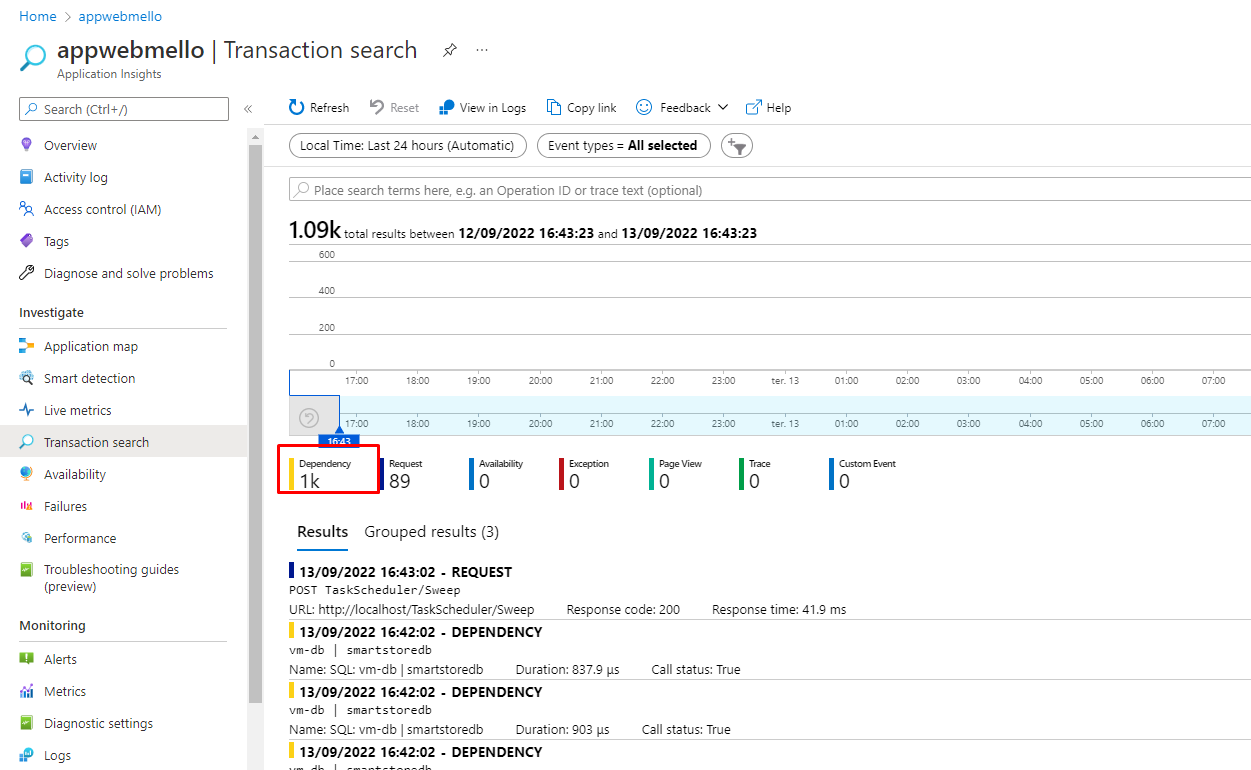
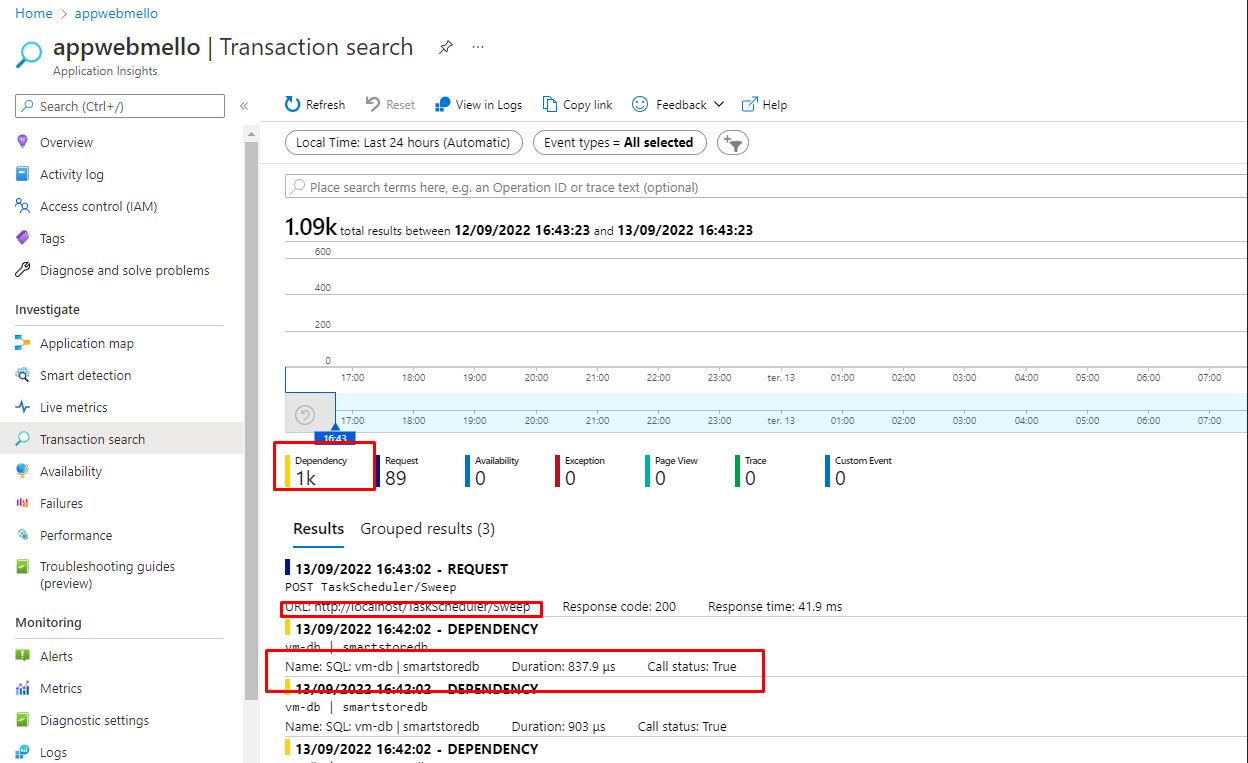
app

diff --git a/labs.md b/labs.md
@@ -113,5 +113,7 @@ Rode o comando, ele irá fazer todas as alterações necessárias para o funcion
 
 Onde podemos verificar tudo o que está sendo transicionado dentro do site.
     Exemplo, ele está tenta mais tráfego com uma dependência que é o banco de dados
+    e também mais detalhes sobre cada requisição.
 
 ![mon20](/images/mon20.png)
+![mon21](/images/mon21.png)
